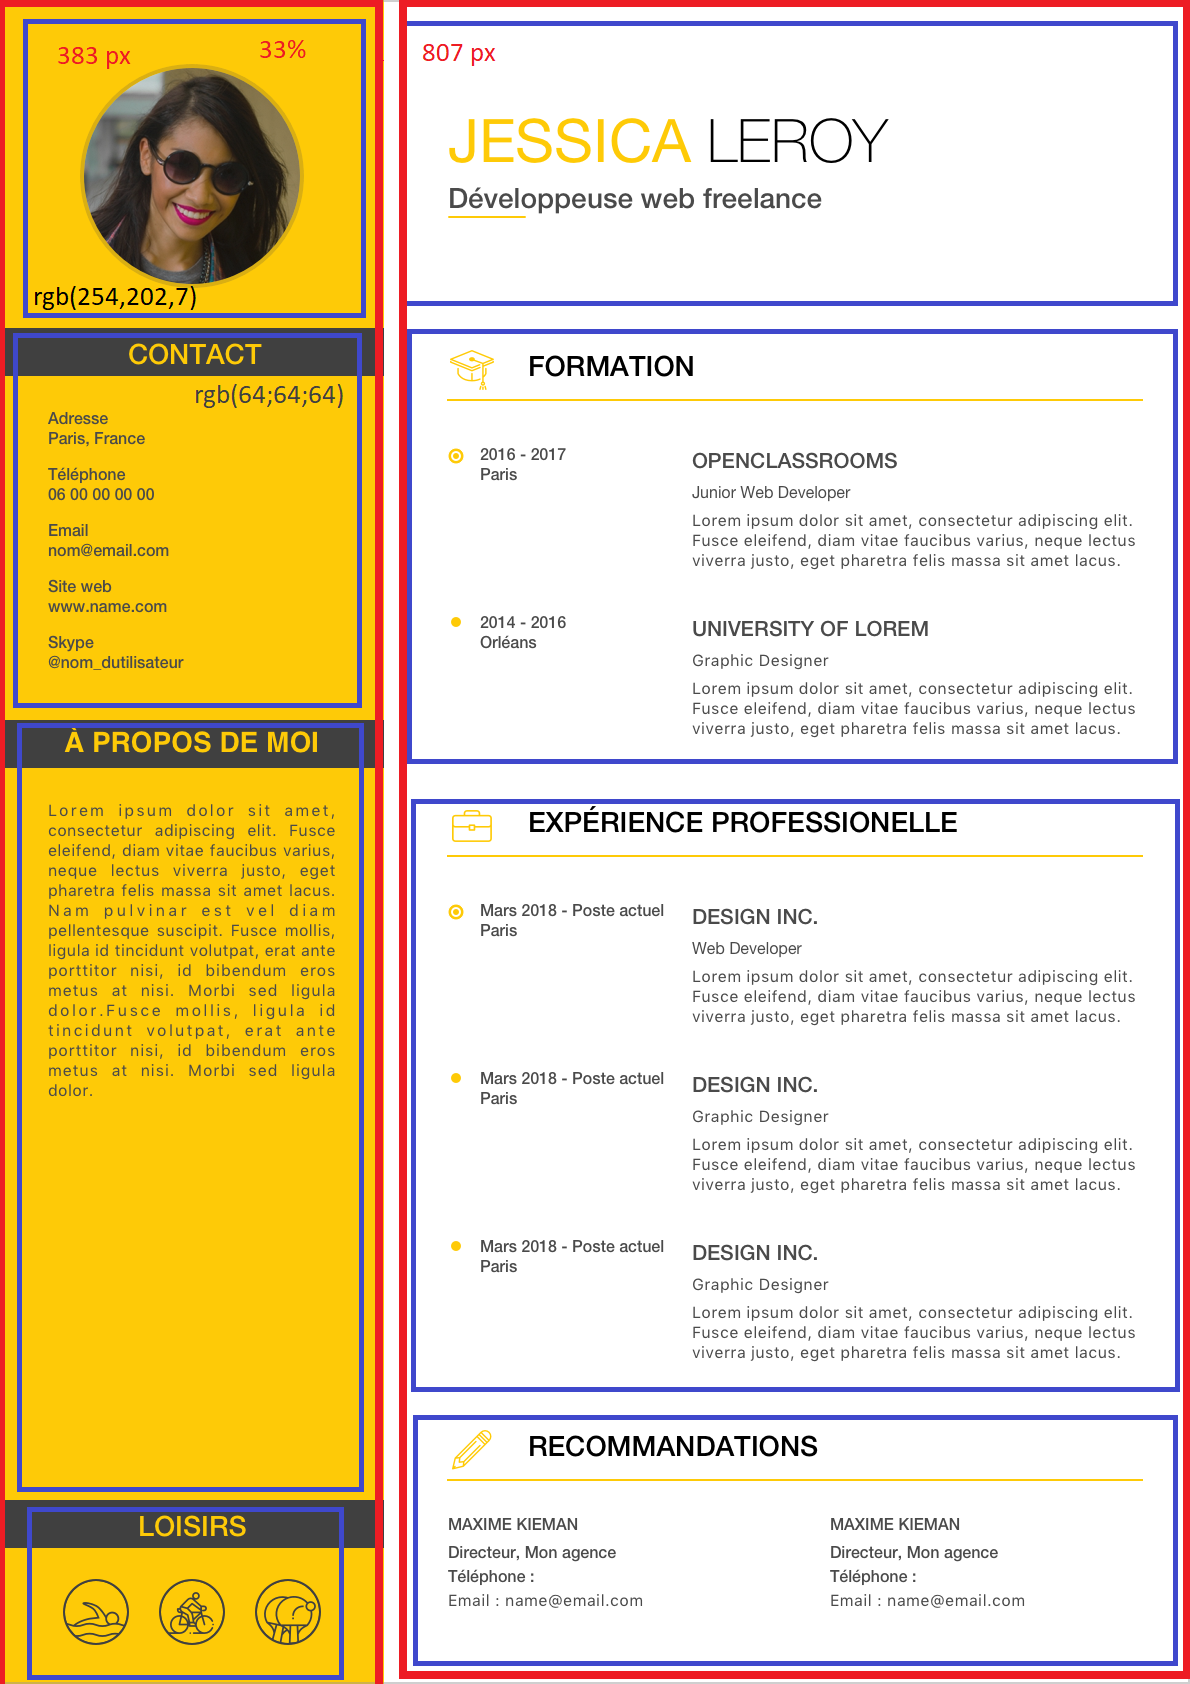
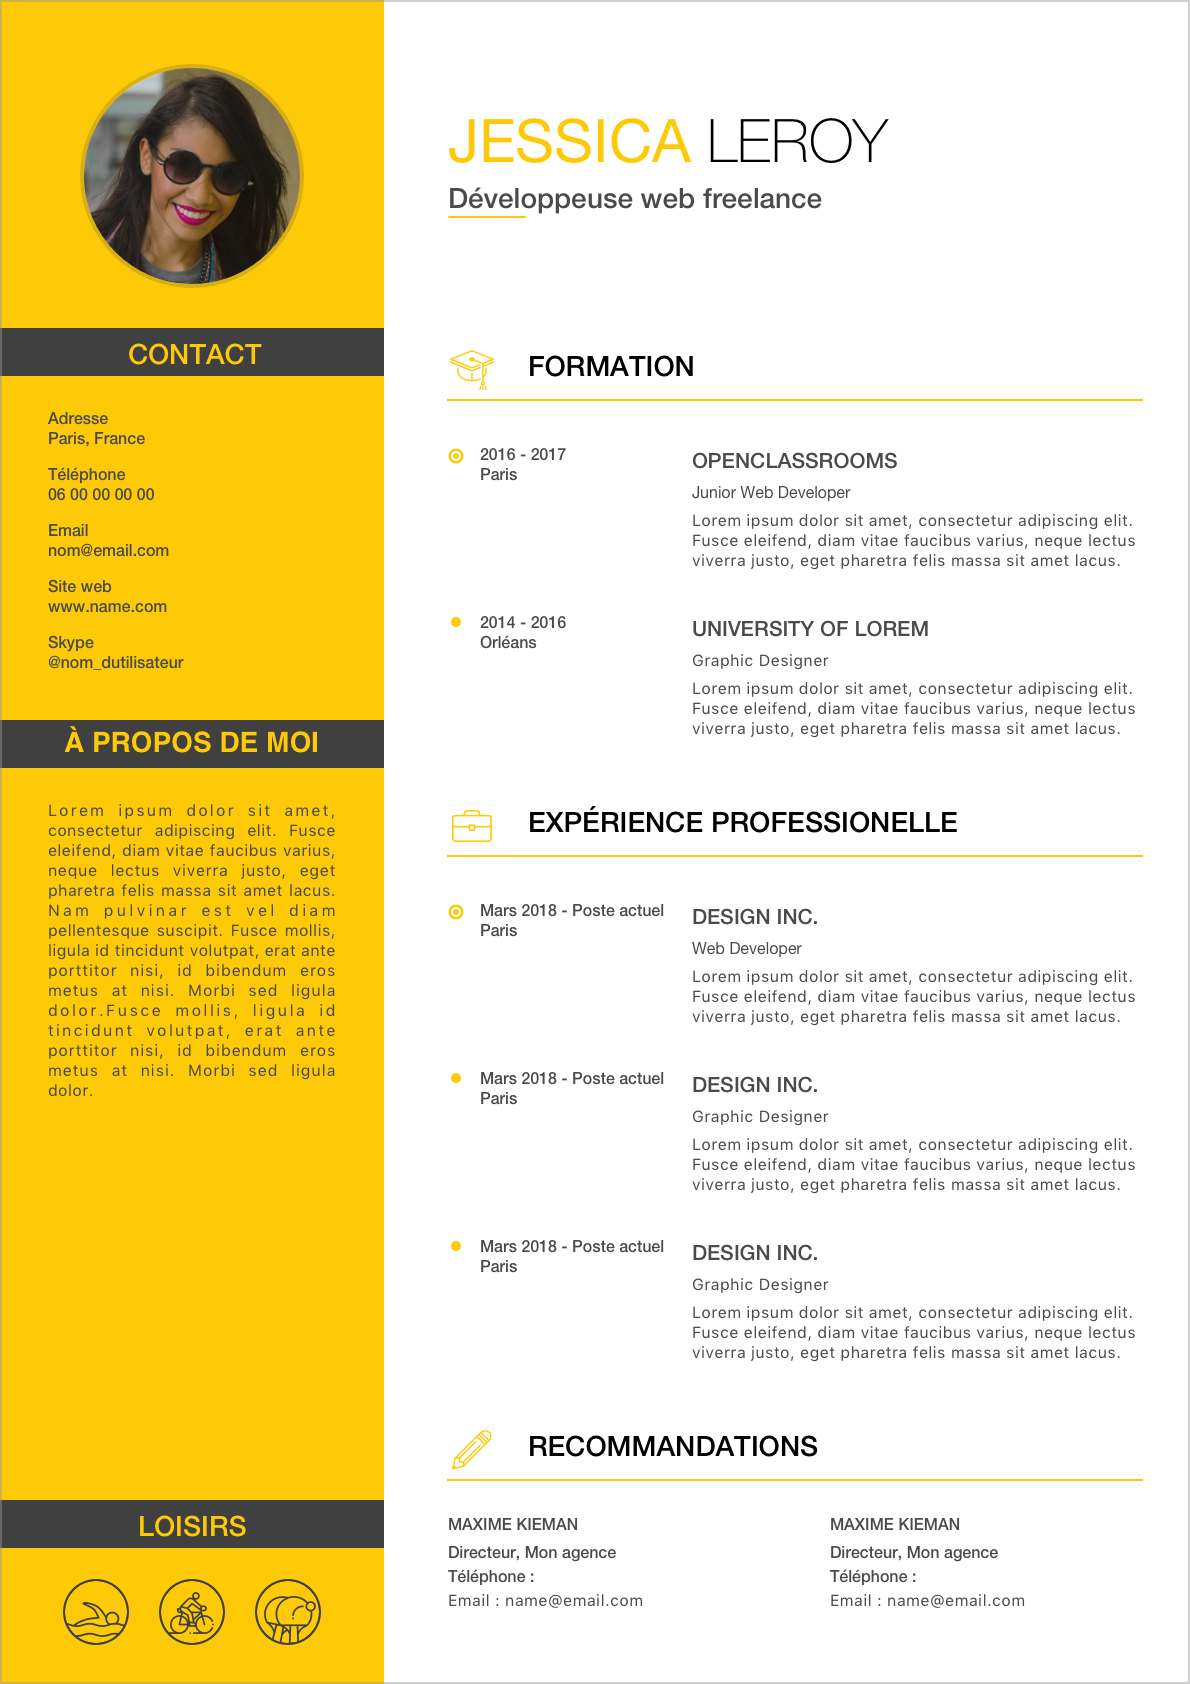
Finission de la colonne de droite avec les puces, tires, espacement

Changed region(s): [[0.0, 0.0, 1.0, 1.0]]

diff --git a/index.html b/index.html
@@ -60,13 +60,21 @@
 					</br>
 					<ul>
                         <div class="box">
-				            <li>2020 à aujourd'hui<br/>Paris</li>
-                            <p>OPENCLASSROOMS<br/>Développeur web<br/>Découper, assembler et intégrer tous les éléments d’une maquette graphique en HTML5 et CSS3 ; appliquer les standards du web et les normes en vigueur ; construire un site web fluide s’adaptant à tout type d’écran ; améliorer le référencement naturel en utilisant les balises selon leur sémantique ; faire réagir la page web en fonction des actions de l’utilisateur en JavaScript ; créer, gérer et afficher le contenu d’une base de données.</p>
+				            <li><span id="noir">2020 à aujourd'hui<br />Paris</span></li>
+							<div>
+								<h3>Openclassrooms</h3>
+								<h4>Formation de développeur web</h4>
+								<p>Découper, assembler et intégrer tous les éléments d’une maquette graphique en HTML5 et CSS3 ; appliquer les standards du web et les normes en vigueur ; construire un site web fluide s’adaptant à tout type d’écran ; améliorer le référencement naturel en utilisant les balises selon leur sémantique ; faire réagir la page web en fonction des actions de l’utilisateur en JavaScript ; créer, gérer et afficher le contenu d’une base de données.</p>
+							</div>
                         </div>
 						</br>
                         <div class="box">
-				            <li>2014-2017<br/>Evreux</li>
-                            <p>Classe préparatoire aux grandes écoles<br/>Physique Sciences de l'ingénieur (PSI) : Programmation en Python : itération et récursivité, algorithmes de tri, structure de pile.</p>
+				            <li><span id="noir">2014-2017<br />Evreux</span></li>
+							<div>
+								<h3>Classe préparatoire aux grandes écoles (C.P.G.E.)</h3>
+								<h4>Physique Sciences de l'ingénieur (PSI)</h4>
+								<p>Programmation en Python : itération et récursivité, algorithmes de tri, structure de pile.</p>
+							</div>
                         </div>
 					</ul>
 				</div>
@@ -78,18 +86,29 @@
 					</br>
 					<ul>
 						<div class="box">
-							<li>2011 à aujourd'hui</li>
-							<p>Webmaster du site de l'association des amis de Bougainville<br />Création et gestion du site web en CMS (wifeo) : formulaire de contact, news-letters, livre d'or, blog</p>
+							<li><span id="noir">2011 à aujourd'hui</span></li>
+							<div>
+								<h3>Webmaster</h3>
+								<h4>Association des Amis de Bougainville</h4>
+								<p>Création et gestion du site web en CMS (wifeo) : formulaire de contact, news-letters, livre d'or, blog</p>
+							</div>
 						</div>
 						</br>
 						<div class="box">
-							<li>2017-2018</li>
-							<p>Webmaster d'un site e-commerce<br />Création et gestion d'un site d'une entreprise my-little-candies de vente de friandise en CMS (wifeo) : gestion d'un espace membre, boutique en ligne avec paiement.</p>
+							<li><span id="noir">2017-2018</span></li>
+							<div>
+								<h3>Webmaster</h3>
+								<h4>Webmaster d'un site e-commerce</h4>
+								<p>Création et gestion d'un site d'une entreprise my-little-candies de vente de friandise en CMS (wifeo) : gestion d'un espace membre, boutique en ligne avec paiement.</p>
+							</div>
 						</div>
 						</br>
 						<div class="box">
-							<li>2016 à aujourd'hui</li>
-							<p>Création d'une micro-entreprise<br />Programmation informatique, numréo de siret : 81756546800011</p>
+							<li><span id="noir">2016 à aujourd'hui</span></li>
+							<div>
+								<h3>Micro-entrepreneur</h3>
+								<p>Programmation informatique, numréo de siret : 81756546800011</p>
+							</div>
 						</div>
 					</ul>
 					

diff --git a/style.css b/style.css
@@ -4,7 +4,7 @@
 {
     display: flex;
 	justify-content: space-around;
-    width: 1000px;
+    width: 1100px;
     margin: auto;
 }
 
@@ -134,4 +134,31 @@ hr
 li
 {
 	min-width:150px;
+}
+
+h3, h4
+{
+	margin:0 0 8px 0;
+}
+
+h3
+{
+	text-transform: uppercase;
+}
+
+h4
+{
+	font-weight:normal;
+}
+
+
+
+ul li 
+{
+	color: #FECA07;
+	font-weight:bold;
+}
+
+#noir {
+	color: black;
 }
